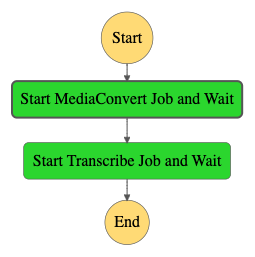
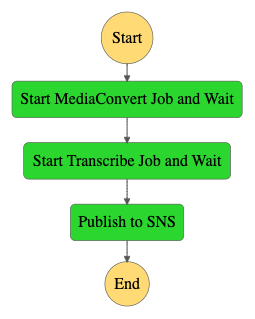
refactor(README): update stepfunctions-graph.png and state machine definition

diff --git a/README.md b/README.md
@@ -93,7 +93,7 @@ The main state machine starts and waits for the MediaConvert Job to finish, it e
       }
     },
     "Start Transcribe Job and Wait": {
-      "End": true,
+      "Next": "Publish to SNS",
       "Retry": [
         {
           "ErrorEquals": [
@@ -107,10 +107,33 @@ The main state machine starts and waits for the MediaConvert Job to finish, it e
         }
       ],
       "Type": "Task",
-      "Resource": "arn:aws:states:::lambda:invoke",
+      "ResultSelector": {
+        "mediaConvert.$": "$.mediaConvert",
+        "transcribe.$": "$.transcribe",
+        "hls.$": "$.hls",
+        "srt.$": "$.srt",
+        "vtt.$": "$.vtt"
+      },
+      "Resource": "arn:aws:states:::lambda:invoke.waitForTaskToken",
       "Parameters": {
         "FunctionName": "${TranscribeLambda}",
-        "Payload.$": "$"
+        "Payload": {
+          "input.$": "$",
+          "taskToken.$": "$$.Task.Token"
+        }
+      }
+    },
+    "Publish to SNS": {
+      "End": true,
+      "Type": "Task",
+      "Resource": "arn:aws:states:::sns:publish",
+      "Parameters": {
+        "TopicArn": "${SnsTopic}",
+        "Message": {
+          "hls.$": "$.hls",
+          "srt.$": "$.srt",
+          "vtt.$": "$.vtt"
+        }
       }
     }
   }
